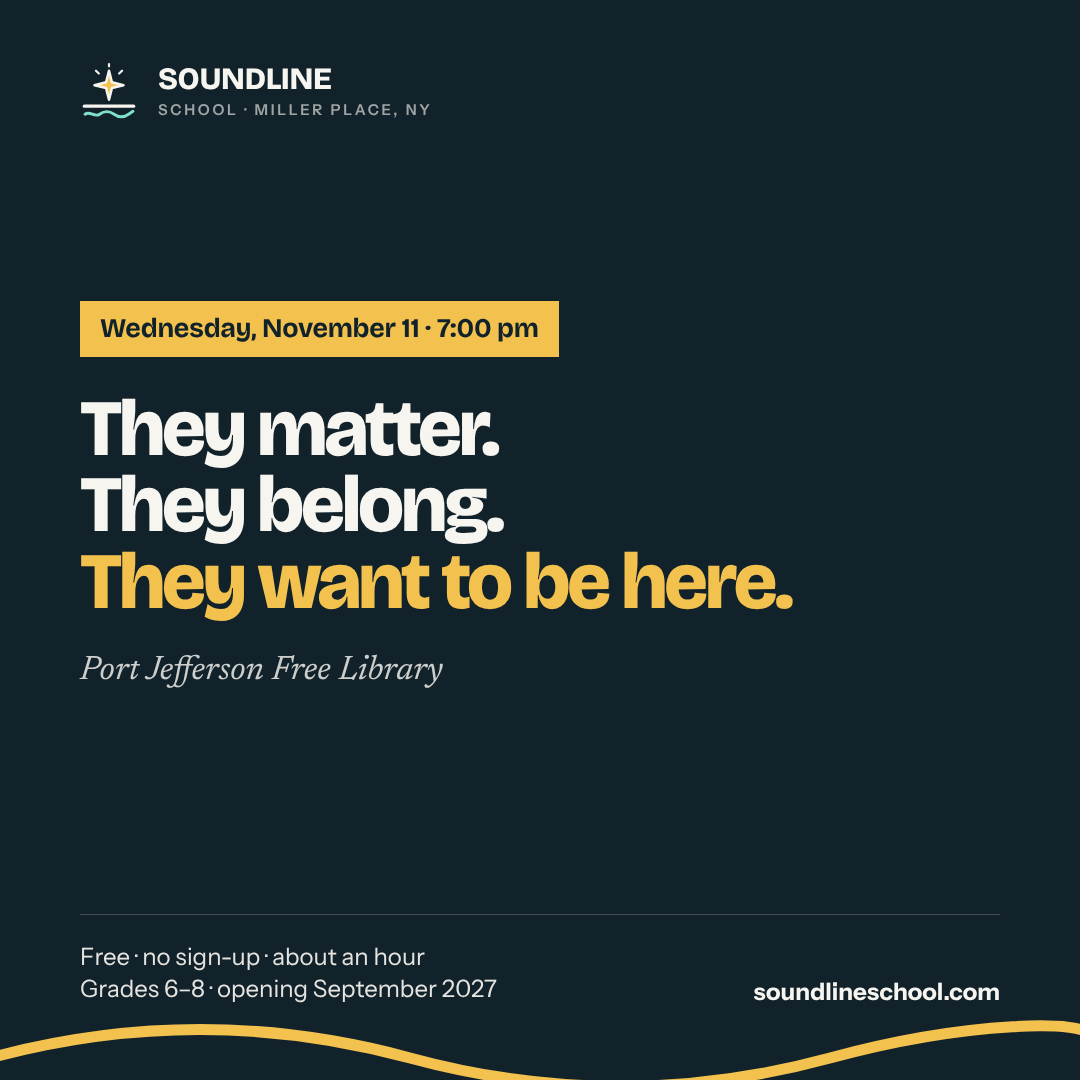
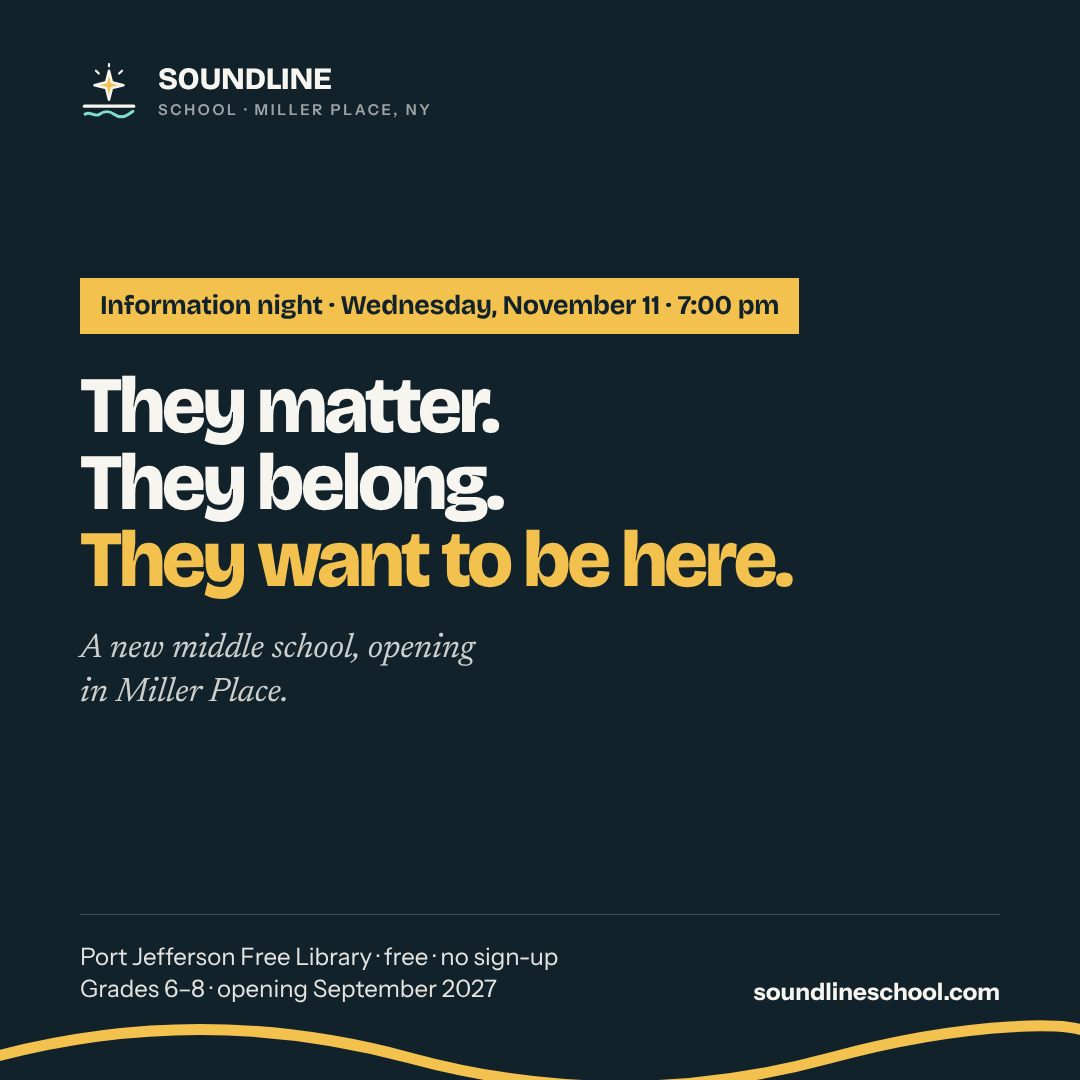
Sell belonging and fun, and let the deck audit itself
Every card now declares which of the three things an eleven to
fourteen year old needs it actually argues: significance,
belonging, fun. Two further values are not pillars — 'trust'
answers the parent's anxiety and converts nobody on its own,
and 'event' is the standing invitation.

Tagging the existing deck showed the problem. Belonging and fun
had one card each, while a third of the rotation was
reassurance: the bus, the paperwork, the deposit, the research.
Those are the easiest cards to keep writing and the least
likely to move anyone.

Six new cards close it, and six trust-heavy slots give way to
them. Across the rotation trust now runs behind significance
and level with belonging.

--audit counts what the wheel actually argues, not what the
deck contains: a card scheduled twice argues twice, and a card
nobody scheduled argues nothing. It flags a phase that argues
belonging or fun nowhere, and a phase that is more reassurance
than offer.

Also moves the venue out of the November 11 ad's subhead. In
the line under the headline it read as an advertisement for the
library; the school belongs there, the library in the footing
with the rest of the logistics.

Claude-Session: https://claude.ai/code/session_018XwtJ3ar8u6f3XjiJA2UqT

Changed region(s): [[0.0611, 0.2444, 0.7639, 0.6722], [0.0917, 0.8556, 0.3972, 0.9167], [0.4278, 0.8861, 0.5194, 0.9167]]

diff --git a/tools/social-cards.js b/tools/social-cards.js
@@ -8,6 +8,7 @@
 //   node tools/social-cards.js 1        → the November 11 information-night card
 //   node tools/social-cards.js 3 4      → phases three and four
 //   node tools/social-cards.js all      → everything
+//   node tools/social-cards.js --audit  → what the rotation actually sells
 //
 // Prints the slot schedule it expects, and refuses to run if a scheduled
 // date falls on the wrong weekday for its slot.
@@ -32,33 +33,50 @@ const WHEEL = {
 // --------------------------------------------------------------- the cards
 // track: home → Glow, public → Making, shared → Beacon. The last headline
 // line takes the track colour, as in Phase One.
+//
+// pillar: what the card actually sells. An eleven-to-fourteen-year-old needs
+// three things, and a parent of one is shopping for all three:
+//
+//   significance — the work matters to somebody besides a gradebook
+//   belonging    — they are known, by name, by the same adults, for years
+//   fun          — they want to walk in the door
+//
+// Two other values are not pillars and are capped deliberately. 'trust'
+// answers the parent's anxiety (the bus, the paperwork, the deposit, the
+// research): necessary, and it converts nobody on its own. 'event' is the
+// standing invitation. Run --audit to see the balance.
 const CARDS = {
   // ---- homeschool -------------------------------------------------------
   h3: {
     track: 'home',
+    pillar: 'trust',
     head: ["We'll keep", 'your hours log.'],
     foot: ['Course descriptions, hours, the quarterly report.',
            'The Collaborative · three days a week'],
   },
   h4: {
     track: 'home',
+    pillar: 'significance',
     head: ['A sixth grader and', 'an eighth grader,', 'same table, same skill.'],
     foot: ['Each moves on when they have got it.', 'Not in June. Not when the class catches up.'],
   },
   h5: {
     track: 'home',
+    pillar: 'significance',
     head: ['Defended out loud.', "To someone who isn't you."],
     foot: ['Every six weeks. No slides, no screen.',
            'The hard part to do at home. Here it is Wednesday.'],
   },
   h7: {
     track: 'home',
+    pillar: 'significance',
     head: ['Thursdays, they work', 'next to someone who', 'does it for a living.'],
     foot: ['Seventh and eighth grade apprenticeships.',
            'The year work stops being assignments.'],
   },
   h8: {
     track: 'home',
+    pillar: 'trust',
     head: ['Three days a week.', 'And the paperwork', 'to match.'],
     foot: ['Monday, Wednesday, Friday · 8:30 to 3:00',
            'Information night January 14.'],
@@ -67,42 +85,49 @@ const CARDS = {
   // ---- public school ----------------------------------------------------
   p1v2: {
     track: 'public',
+    pillar: 'belonging',
     head: ['Doing fine on paper.', 'Quietly checked out.'],
     foot: ['Middle school is three years. They go fast.',
            'Information night January 14.'],
   },
   p3: {
     track: 'public',
+    pillar: 'trust',
     head: ['Eleven minutes', 'in a folding chair,', 'twice a year.'],
     foot: ['An 88 does not tell you what your child can do.',
            'A folder of proof does.'],
   },
   p4: {
     track: 'public',
+    pillar: 'trust',
     head: ['Six hours on a Chromebook', 'is not a curriculum.'],
     foot: ['Taught by a person with a book, never by an app.',
            'How much screen time? Less than you would think.'],
   },
   p5: {
     track: 'public',
+    pillar: 'significance',
     head: ['Two hours of practice.', 'Four hours of making.'],
     foot: ['8:30 to 3:00 · Extended Day until 5:30',
            'Grades 6–8 · Miller Place · September 2027'],
   },
   p6: {
     track: 'public',
+    pillar: 'trust',
     head: ['None of this is new.', 'Putting it in one', 'building is.'],
     foot: ['Mastery, long projects, one close teacher.',
            'The research, with sources, is on the site.'],
   },
   p7: {
     track: 'public',
+    pillar: 'significance',
     head: ['Four minutes of work.', 'Thirty-eight of waiting.'],
     foot: ['Nobody waits here once they have got it.',
            'Grouped by skill, not age.'],
   },
   p8: {
     track: 'public',
+    pillar: 'trust',
     head: ['The bus. The IEP.', 'And sports.'],
     foot: ['The three questions asked before any of the others.',
            'All three answered on the site.'],
@@ -111,20 +136,75 @@ const CARDS = {
   // Ask stops promising a date and starts naming what is open.
   p9v2: {
     track: 'public',
+    pillar: 'trust',
     head: ['Tuition is published.', 'Founding enrollment', 'is open.'],
     foot: ['A rate that holds through twelfth grade.',
            'A seat on the Family Council.'],
   },
 
+  // ---- belonging --------------------------------------------------------
+  // Being known is a function of arithmetic and of time. Both are things we
+  // can state as fact rather than promise, which is the only way to say
+  // "your child will be known" without sounding like a brochure.
+  b1: {
+    track: 'shared',
+    pillar: 'belonging',
+    head: ['Ten to twelve', 'in a grade.', 'There is no back row.'],
+    foot: ['Nobody drifts. Nobody is a seating chart.',
+           'Four adults in the building, and they all know them.'],
+  },
+  b2: {
+    track: 'shared',
+    pillar: 'belonging',
+    head: ['The same adult,', 'September of sixth', 'to June of eighth.'],
+    foot: ['Long enough to notice when something is off.',
+           'Long enough to be believed when they say it.'],
+  },
+  b3: {
+    track: 'home',
+    pillar: 'belonging',
+    head: ['A sixth grader can be', 'the best in the room', 'at something.'],
+    foot: ['Grouped by skill, not by age.',
+           'Which means everyone is ahead at something.'],
+  },
+
+  // ---- fun --------------------------------------------------------------
+  // The hardest of the three to claim, because a school that says it is fun
+  // sounds unserious. So none of these say "fun" — they describe what it
+  // looks like from the passenger seat.
+  f1: {
+    track: 'public',
+    pillar: 'fun',
+    head: ['They tell you about it', 'in the car.'],
+    foot: ['The whole way home, without being asked.',
+           'That is the measure we actually care about.'],
+  },
+  f2: {
+    track: 'public',
+    pillar: 'fun',
+    head: ['When did school', 'get so quiet?'],
+    foot: ['Four hours of making, every afternoon.',
+           'Loud is allowed.'],
+  },
+  f3: {
+    track: 'shared',
+    pillar: 'fun',
+    head: ['Ask yours what', "they'd build,", 'given six weeks.'],
+    foot: ['Then ask where they could do that now.',
+           'Every six weeks, that is the afternoon.'],
+  },
+
   // ---- shared -----------------------------------------------------------
   s1: {
     track: 'shared',
+    pillar: 'belonging',
     head: ['“He’ll know your child', 'by Wednesday.”'],
     foot: ['Adam King · lead guide',
            'Four adults in the building. Every student known.'],
   },
   s2v2: {
     track: 'shared',
+    pillar: 'significance',
     head: ['Depth', 'with direction.'],
     sub: 'Every child has a soundline.',
     foot: ['Where they are, skill by skill —',
@@ -132,6 +212,7 @@ const CARDS = {
   },
   s3: {
     track: 'shared',
+    pillar: 'fun',
     head: ['Friday, 2:00.', 'Usually loud.'],
     foot: ['Someone presents. Something is performed.',
            'Families welcome.'],
@@ -141,6 +222,7 @@ const CARDS = {
   // generator owns, because the hour and the venue were confirmed late.
   s4nov: {
     track: 'shared',
+    pillar: 'event',
     head: ['Information night,', 'November 11.'],
     foot: ['7:00 pm · Port Jefferson Free Library',
            'Founding enrollment opens the next morning.'],
@@ -150,18 +232,21 @@ const CARDS = {
   // building gets asked before any other.
   x1escrow: {
     track: 'shared',
+    pillar: 'trust',
     head: ['We do not hold', 'your deposit.'],
     foot: ['$500, in escrow with an independent agent.',
            'Refundable in full until we sign a lease.'],
   },
   s4dec: {
     track: 'shared',
+    pillar: 'event',
     head: ['Information night,', 'December 12.'],
     foot: ['What Soundline is. What a day looks like.',
            'Free and open to all.'],
   },
   s4jan: {
     track: 'shared',
+    pillar: 'event',
     head: ['Information night,', 'January 14.'],
     foot: ['What Soundline is. What a day looks like.',
            'Free and open to all.'],
@@ -182,8 +267,8 @@ const SCHEDULE = {
   2: { window: 'Nov 12 – Nov 30 · open', slots: [
     ['2026-11-13', 'place',     's2v2'],
     ['2026-11-15', 'ask',       'p9v2'],
-    ['2026-11-16', 'mechanism', 'h3'],
-    ['2026-11-18', 'mirror',    'p3'],
+    ['2026-11-16', 'mechanism', 'b1'],
+    ['2026-11-18', 'mirror',    'f1'],
     ['2026-11-20', 'place',     'x1escrow'],
     ['2026-11-22', 'ask',       's4dec'],
     ['2026-11-23', 'mechanism', 'p8'],
@@ -196,8 +281,8 @@ const SCHEDULE = {
     ['2026-12-02', 'mirror',    'p7'],
     ['2026-12-04', 'place',     's3'],
     ['2026-12-06', 'ask',       's4dec'],
-    ['2026-12-07', 'mechanism', 'h4'],
-    ['2026-12-09', 'mirror',    'p3'],
+    ['2026-12-07', 'mechanism', 'b2'],
+    ['2026-12-09', 'mirror',    'f3'],
     ['2026-12-11', 'place',     'h7'],
   ]},
   4: { window: 'Jan 2 – Jan 14 · the switch window', slots: [
@@ -206,8 +291,8 @@ const SCHEDULE = {
     ['2027-01-06', 'mirror',    'p1v2'],
     ['2027-01-08', 'place',     's2v2'],
     ['2027-01-10', 'ask',       'h8'],
-    ['2027-01-11', 'mechanism', 'p8'],
-    ['2027-01-13', 'mirror',    'p7'],
+    ['2027-01-11', 'mechanism', 'b3'],
+    ['2027-01-13', 'mirror',    'f2'],
   ]},
 };
 
@@ -321,8 +406,54 @@ function check(phases) {
   }
 }
 
+// What a phase sells, counted off the wheel rather than off the deck: a card
+// scheduled twice argues twice, and a card nobody scheduled argues nothing.
+// Trust is capped because it answers the parent's anxiety and converts no
+// one on its own, and because it is the easiest kind of card to keep writing.
+function audit() {
+  const PILLARS = ['significance', 'belonging', 'fun', 'trust', 'event'];
+  const warn = [];
+  const total = Object.fromEntries(PILLARS.map((k) => [k, 0]));
+
+  for (const n of [1, 2, 3, 4]) {
+    const runs = SCHEDULE[n].slots.map((s) => CARDS[s[2]].pillar);
+    const by = Object.fromEntries(PILLARS.map((k) =>
+      [k, runs.filter((r) => r === k).length]));
+    PILLARS.forEach((k) => { total[k] += by[k]; });
+
+    console.log(`\nPhase ${n} · ${SCHEDULE[n].window}  (${runs.length} posts)`);
+    for (const k of PILLARS) {
+      if (!by[k] && k === 'event') continue;
+      const share = runs.length ? Math.round((by[k] / runs.length) * 100) : 0;
+      console.log(`  ${k.padEnd(13)} ${String(by[k]).padStart(2)}  ${'█'.repeat(by[k])}${by[k] ? ' ' : ''}${share}%`);
+    }
+    if (n > 1) {
+      for (const k of ['belonging', 'fun']) {
+        if (!by[k]) warn.push(`phase ${n} argues ${k} nowhere`);
+      }
+      if (by.trust > by.significance + by.belonging + by.fun) {
+        warn.push(`phase ${n} is more reassurance than offer`);
+      }
+    }
+  }
+
+  const runs = Object.values(total).reduce((a, b) => a + b, 0);
+  console.log(`\nAcross the rotation · ${runs} posts`);
+  for (const k of PILLARS) {
+    console.log(`  ${k.padEnd(13)} ${String(total[k]).padStart(2)}  ${Math.round((total[k] / runs) * 100)}%`);
+  }
+
+  const unused = Object.keys(CARDS).filter((id) =>
+    ![1, 2, 3, 4].some((n) => SCHEDULE[n].slots.some((s) => s[2] === id)));
+  if (unused.length) console.log(`\nDrawn but not scheduled: ${unused.join(', ')}`);
+  if (warn.length) console.log('\nThin:\n  ' + warn.join('\n  '));
+}
+
 (async () => {
-  const phases = resolve(process.argv.slice(2));
+  const argv = process.argv.slice(2);
+  if (argv.includes('--audit')) { audit(); return; }
+
+  const phases = resolve(argv);
   check(phases);
 
   const needed = [...new Set(phases.flatMap((p) => SCHEDULE[p].slots.map((s) => s[2])))];

diff --git a/tools/ads-nov11.js b/tools/ads-nov11.js
@@ -37,11 +37,15 @@ const WAVE = `<svg class="wave" viewBox="0 0 1080 90" preserveAspectRatio="none"
 // tuition is what sets us apart from other schools, but to a cold parent it
 // reads as a pitch, so price and logistics sit in the footing as
 // reassurance rather than leading.
+//
+// The venue is logistics, not identity. It stays in the footing with the
+// rest of the practical detail — put in the line under the headline it
+// reads as an advertisement for the library.
 const COPY = {
-  kicker: 'Wednesday, November 11 · 7:00 pm',
+  kicker: 'Information night · Wednesday, November 11 · 7:00 pm',
   head: ['They matter.', 'They belong.', 'They want to be here.'],
-  sub: 'Port Jefferson Free Library',
-  foot: ['Free · no sign-up · about an hour',
+  sub: 'A new middle school, opening in Miller Place.',
+  foot: ['Port Jefferson Free Library · free · no sign-up',
          'Grades 6–8 · opening September 2027'],
 };
 
